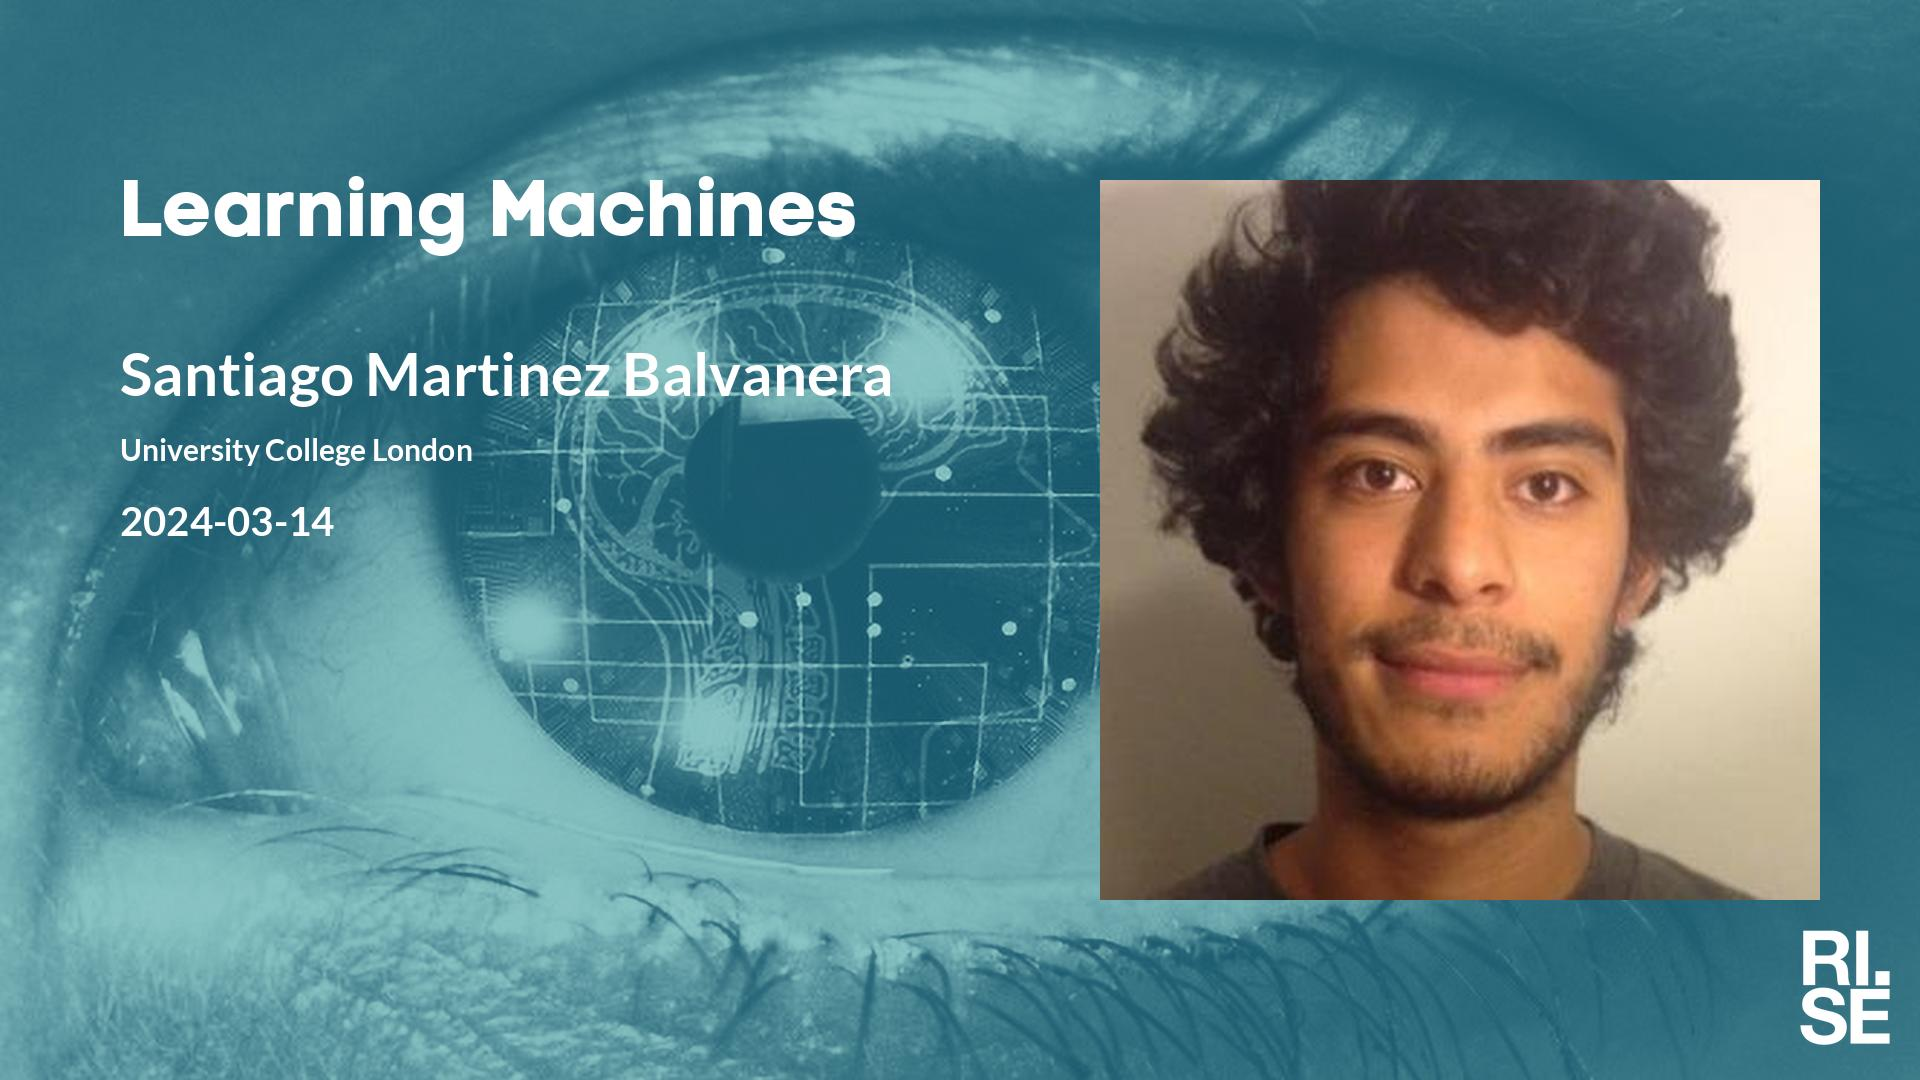
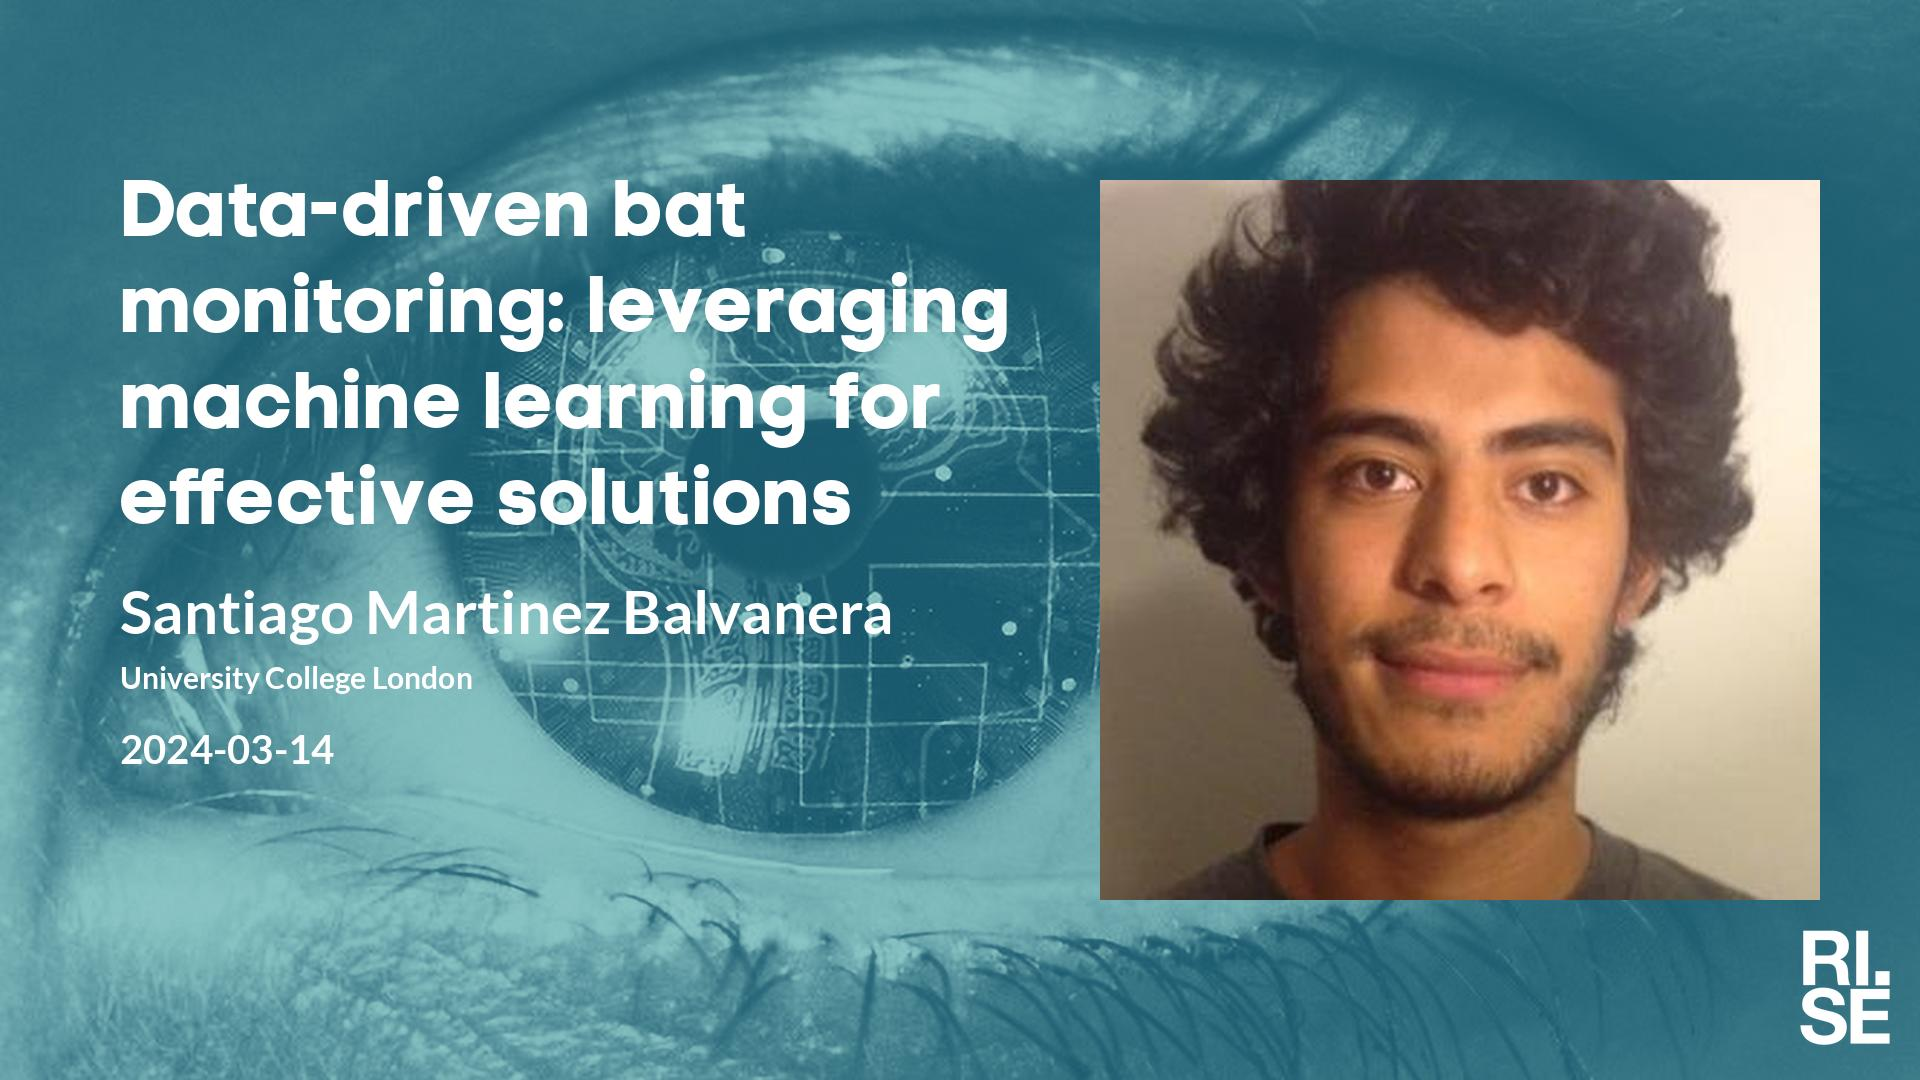
Updated plan on web site.

Changed region(s): [[0.0625, 0.1528, 0.5312, 0.5194], [0.0625, 0.55, 0.4688, 0.6417], [0.0625, 0.6722, 0.1875, 0.7333]]

diff --git a/lm/index.md b/lm/index.md
@@ -5,7 +5,7 @@ metatags: "<meta name=\"robots\" content=\"noindex,nofollow\" />"
 <style type="text/css" scoped>
 td, th {border: 1px solid #ccc; padding: 0.6em;}
 table {border-collapse: collapse;}
-</style># Learning Machines Plan 2024-02-20
+</style># Learning Machines Plan 2024-02-26
 
 | date | speaker                                   | photo | shareable | meeting backdrop | youtube thumbnail | <a title="Speaker, Title, Abstract, Bio, Photo. Strikethrough means we don't have it yet.">comment</a>        |
 | ---- | ----------------------------------------- | ----- | ----- | ----- | ----- | -------------- |
@@ -14,7 +14,7 @@ table {border-collapse: collapse;}
 |  2024-02-22  |  [Alexander Mathis, EPFL](2024-02-22.md)  |  [photo](photo-alexander-mathis.jpg)  |  [social media ](social-media-alexander-mathis.jpg)  |  [meeting backdrop ](meeting-backdrop-alexander-mathis.jpg)  |  [youtube thumbnail ](youtube-thumbnail-alexander-mathis.jpg)  |  STABP  |
 | <span style="color:red"> 2024-02-29 </span> | <span style="color:red"> Sportlov </span> | <span style="color:red">  </span> | <span style="color:red">  </span> | <span style="color:red">  </span> | <span style="color:red">  </span> | <span style="color:red"> CANCELLED </span> |
 |  2024-03-07  |  [Elise van der Pol, Microsoft Research](2024-03-07.md)  |  [photo](photo-elise-van-der-pol.jpg)  |  [social media ](social-media-elise-van-der-pol.jpg)  |  [meeting backdrop ](meeting-backdrop-elise-van-der-pol.jpg)  |  [youtube thumbnail ](youtube-thumbnail-elise-van-der-pol.jpg)  |  STABP  |
-|  2024-03-14  |  [Santiago Martinez Balvanera, University College London](2024-03-14.md)  |  [photo](photo-santiago-martinez-balvanera.jpg)  |  [social media ](social-media-santiago-martinez-balvanera.jpg)  |  [meeting backdrop ](meeting-backdrop-santiago-martinez-balvanera.jpg)  |  [youtube thumbnail ](youtube-thumbnail-santiago-martinez-balvanera.jpg)  |  S~~TAB~~P  |
+|  2024-03-14  |  [Santiago Martinez Balvanera, University College London](2024-03-14.md)  |  [photo](photo-santiago-martinez-balvanera.jpg)  |  [social media ](social-media-santiago-martinez-balvanera.jpg)  |  [meeting backdrop ](meeting-backdrop-santiago-martinez-balvanera.jpg)  |  [youtube thumbnail ](youtube-thumbnail-santiago-martinez-balvanera.jpg)  |  STABP  |
 |  2024-03-21  |  [Fredrik Gustafsson, Karolinska Institutet](2024-03-21.md)  |  [photo](photo-fredrik-gustafsson.jpg)  |  [social media ](social-media-fredrik-gustafsson.jpg)  |  [meeting backdrop ](meeting-backdrop-fredrik-gustafsson.jpg)  |  [youtube thumbnail ](youtube-thumbnail-fredrik-gustafsson.jpg)  |  STA~~B~~P  |
 |  2024-04-04  |  [Karsten Kreis, NVIDIA Toronto AI Lab](2024-04-04.md)  |  [photo](photo-karsten-kreis.jpg)  |  [social media ](social-media-karsten-kreis.jpg)  |  [meeting backdrop ](meeting-backdrop-karsten-kreis.jpg)  |  [youtube thumbnail ](youtube-thumbnail-karsten-kreis.jpg)  |  S~~TAB~~P  |
 |  2024-04-11  |  [Alouette van Hove, University of Oslo](2024-04-11.md)  |    |  [social media ](social-media-alouette-van-hove.jpg)  |  [meeting backdrop ](meeting-backdrop-alouette-van-hove.jpg)  |  [youtube thumbnail ](youtube-thumbnail-alouette-van-hove.jpg)  |  S~~TABP~~  |

diff --git a/lm/2024-03-14.md b/lm/2024-03-14.md
@@ -4,13 +4,15 @@ metatags: "<meta name=\"robots\" content=\"noindex,nofollow\" />"
 ---
 Welcome to this week's Learning Machines seminar.
 
-**Title:** N/A
+**Title:** Data-driven bat monitoring: leveraging machine learning for effective solutions
 
 **Speaker:** Santiago Martinez Balvanera, University College London
 
-**Abstract:** N/A
+**Abstract:** There is a growing need for innovative and effective tools for large-scale biodiversity monitoring to address the biodiversity crisis. Machine Learning (ML) has emerged as a powerful tool in this pursuit, as exemplified by the promising application of machine listening to analyze environmental audio data. However, acoustic monitoring presents significant challenges due to the wide variety of deployment environments, the inherent complexities of target sounds (often requiring subtle differentiations), and limited data availability in terms of taxonomic and geographic coverage. Despite these difficulties, they offer compelling research problems in the intersection of ML research and its application within complex ecological contexts.
 
-**About the speaker:** N/A
+In this talk I will explore key challenges encountered in developing machine learning (ML) tools for bat acoustic identification, focusing on how my research addresses these challenges. A critical obstacle lies in the efficient generation and curation of high-quality training data for bioacoustic ML tasks. My research tackles this by investigating best practices in annotation and developing collaborative annotation tools to facilitate the iterative refinement of both ML models and datasets. Furthermore, the limited availability of data necessitates sample-efficient ML training strategies. This can involve incorporating biologically relevant inductive biases into model architectures and maximizing the use of existing data resources. Finally, the presentation concludes by exploring the complexities of transitioning these ML tools into accessible solutions readily available to both researchers and decision-makers.
+
+**About the speaker:** Santiago Martinez Balvanera is a PhD Student at University College London, investigating machine learning methods for extracting ecological insights from audio data. His primary focus lies in developing sound event detection models for bioacoustics, particularly in the few-shot regime. In collaboration with Kate Jones and Oisin Mac Aodha, he specializes in generalizable models for bat acoustic identification. Additionally, he contributes to open-source software tooling for computational bioacoustics and advocates for data standardization and sharing practices.
 
 **Location:** This is an online seminar. Connect using Zoom.
 

diff --git a/lm/2024-02-22.md b/lm/2024-02-22.md
@@ -8,7 +8,7 @@ Welcome to this week's Learning Machines seminar.
 
 **Speaker:** Alexander Mathis, EPFL
 
-**Abstract:** Quantifying behavior is crucial for many applications across the life sciences and engineering. Videography provides easy methods for the observation and recording of animal behavior in diverse settings, yet extracting particular aspects of a behavior for further analysis can be highly time consuming and computationally challenging. I will present an efficient method for markerless pose estimation based on transfer learning with deep neural networks that achieves excellent results with minimal training data (DeepLabCut). Subsequently, I will present methods that enable robust zero-shot performance and action segmentation. Finally, I will talk about top-down and bottom-up approaches for modeling the sensorimotor system.
+**Abstract:** Quantifying behavior is crucial for many applications across the life sciences and engineering. Videography provides easy methods for the observation and recording of animal behavior in diverse settings, yet extracting particular aspects of a behavior for further analysis can be highly event_time consuming and computationally challenging. I will present an efficient method for markerless pose estimation based on transfer learning with deep neural networks that achieves excellent results with minimal training data (DeepLabCut). Subsequently, I will present methods that enable robust zero-shot performance and action segmentation. Finally, I will talk about top-down and bottom-up approaches for modeling the sensorimotor system.
 
 **About the speaker:** Alexander Mathis is an Assistant Professor at EPFL. His group works at the intersection of computational neuroscience and machine learning. Ultimately, his group is interested in reverse engineering the algorithms of the brain, in order to figure out how the brain works and to build better artificial intelligence systems. While doing so, he strives to develop open-source tools for the analysis of animal behavior. In parallel, he develops models and theories of adaptive sensorimotor control. Previously, he was a Marie-Curie Fellow at Harvard University and the University of Tübingen. He completed his doctorate training at Ludwig Maximilians University in Munich (LMU), after studying mathematics at LMU.
 
